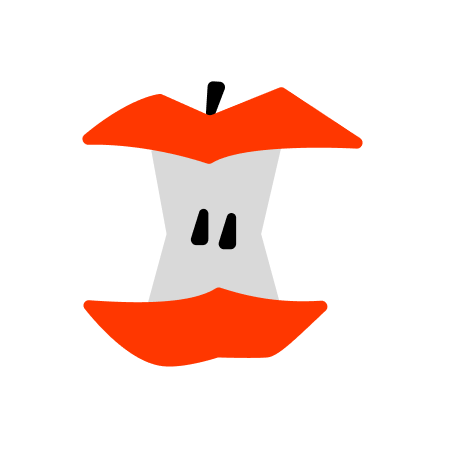
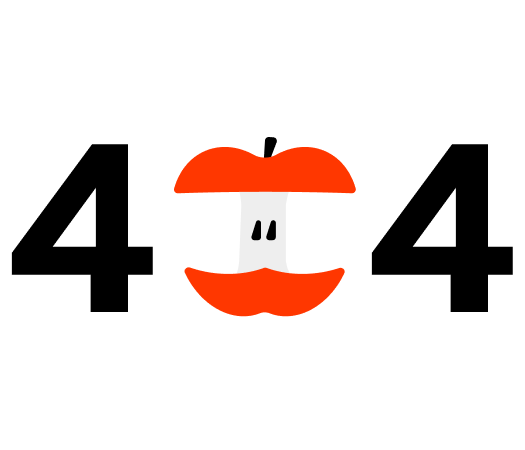
feat:user notfound 페이지 수정

Changed region(s): [[0.0, 0.1556, 0.8089, 0.84], [0.6844, 0.3111, 0.9956, 0.7156]]

diff --git a/apps/nowait-user/src/pages/NotFound/NotFound.tsx b/apps/nowait-user/src/pages/NotFound/NotFound.tsx
@@ -3,13 +3,8 @@ const NotFound = () => {
   return (
     <main className="w-full min-h-dvh flex justify-center items-center">
       <div className="flex flex-col justify-center items-center text-center">
-      <img src={NotFoundImage} width="150px" height="150px" alt="페이지를 찾을 수 없습니다" />
+      <img src={NotFoundImage} width="175px" height="150px" alt="페이지를 찾을 수 없습니다" />
       <h1 className="text-headline-24-bold mb-[14px]">페이지를 찾을 수 없어요</h1>
-      <h2 className="text-16-regular text-black-70">
-        페이지가 존재하지 않거나, 사용할 수 없는 페이지입니다.
-        <br />
-        입력하신 주소가 정확한지 다시 한번 확인해 주세요.
-      </h2>
       </div>
     </main>
   );
